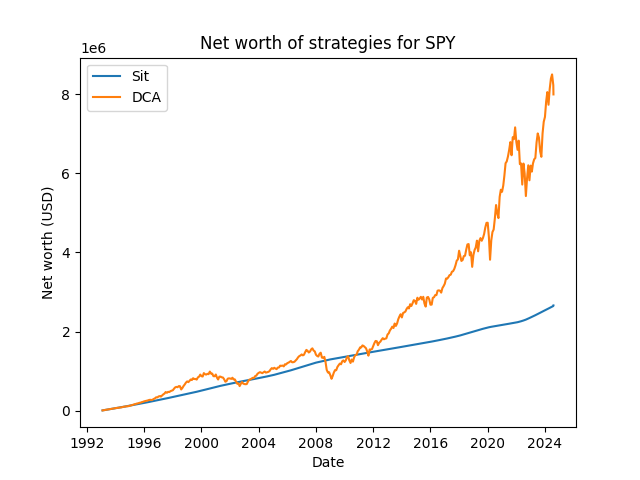
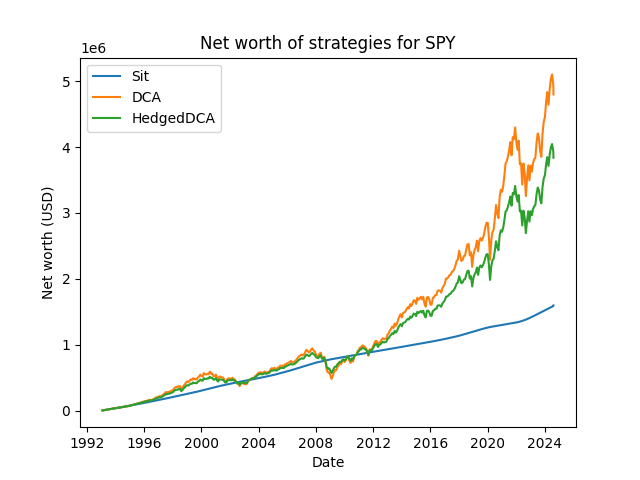
Added some basic samples

diff --git a/main.py b/main.py
@@ -1,15 +1,18 @@
 import os
 from dataclasses import dataclass
 import datetime
-from strategies.DCA import DCA
+
 from strategies.Sit import Sit
+from strategies.DCA import DCA
+from strategies.HedgedDCA import HedgedDCA
+
 from utils import MarketDatapoint
 import matplotlib.pyplot as plt
 
 # ===== Global variables =======================================================
 
 # Monthly cashflow/income
-monthlyIncome = 5_000.00  # USD for stock investing
+monthlyIncome = 3_000.00  # USD for stock investing
 
 # Yield rates, historically
 yieldRates = []
@@ -18,7 +21,7 @@ yieldRates = []
 tickers = [filename for filename in os.listdir(
     "tickers") if filename.endswith(".csv")]
 tickers = [ticker[:-4] for ticker in tickers]
-strategies = [Sit, DCA]
+strategies = [Sit, DCA, HedgedDCA]
 
 # ===== Data processing step ===================================================
 

diff --git a/strategies/HedgedDCA.py b/strategies/HedgedDCA.py
@@ -2,13 +2,14 @@ from strategies.AbstractStrategy import AbstractStrategy
 from utils import MarketDatapoint
 
 
-class DCA(AbstractStrategy):
+class HedgedDCA(AbstractStrategy):
     def __init__(self):
         super().__init__()
 
     def applyOrderStrategy(self, income: float, dp: MarketDatapoint):
-        # Calculate the number of shares to buy
-        stockShareCount = income / dp.marketClose
+        # Instead of YOLO-ing into the market, we'll hedge our bets
+        self.bankBalance += income * 0.3
 
-        # Since we aren't adding to our bank balance, we can just add shares
+        # Now we can just do DCA with the remainder
+        stockShareCount = (income * 0.7) / dp.marketClose
         self.stockShareCount += stockShareCount

diff --git a/strategies/Sit.py b/strategies/Sit.py
@@ -1,11 +1,6 @@
 from strategies.AbstractStrategy import AbstractStrategy
 from utils import MarketDatapoint
 
-# The Sit strategy does nothing but sit on its current income in money market
-# funds. This is a simple strategy that does not involve any significant trading
-# or portfolio management; However, the returns are capped to the federal yield
-# rate alone.
-
 
 class Sit(AbstractStrategy):
     def __init__(self):

diff --git a/FinDocs.md b/FinDocs.md
@@ -1,0 +1,89 @@
+# Financial Documentation
+
+NOTE: None of what is written here is financial advice, and it's probably not
+even correct financial reading material. It's simply my interpretation of what's
+going on in these backtests.
+
+NOTE 2: These are investing backtests, and past performance is not necessarily
+indicative of future results. For a more detailed breakdown on why that is the
+case, check out [this video](https://www.youtube.com/watch?v=jm55pm_ZIdI).
+
+## Overall results
+
+The following is a graph of overall results for various strategies on $SPY,
+which is the index fund (ETF) for the S&P 500.
+
+![SPY](graphs/Stock_SPY.png)
+
+The following is a graph of results for strategies on $QQQ.
+
+![QQQ](graphs/Stock_QQQ.png)
+
+## Breakdowns of individual strategy
+
+### Sit: Probably a bad idea for your money
+
+![Sit](graphs/Strat_Sit.png)
+
+The Sit strategy consists of taking monthly income and throwing it in a money
+market fund. For these graphs, I've taken historical data of federal/treasury
+return rates as a close-enough stand-in for money market yield rates. Treasury
+bonds or other things should yield roughly the same, but in bull markets, very
+generally, money market funds outperform treasury bonds whilst being more
+liquid. Notably, money market funds also outperform HYSAs, making them a fairly
+good candidate.
+
+The Sit strategy actually outperforms other strategies in times of significant
+recession, as you don't _lose_ money while sitting on it. However, notably, once
+you have enough money as a cushion to absorb losses, sitting underperforms other
+strategies significantly, and in a long enough term, it underperforms vastly.
+
+### DCA: What people tell you to do
+
+![DCA](graphs/Strat_DCA.png)
+
+Dollar Cost Averaging (DCA) is a technique used to perform better in a market
+scenario by simply (and blindly) throwing fixed amounts of money, monthly, into
+the market, regardless of its performance. You incur gains and losses relative
+to the market, but over time, if the underlying stock increases your portfolio
+increases.
+
+From a mathematical perspective, a crude approximation of a cyclical market is
+that of a sinusoidal wave (with changing phase, changing frequency - The point
+is, it's sinusoidal) and an additional baseband component. This baseband
+component generically goes up in financial markets, as the value of things
+consistently goes up. In other terms, as more technology develops and life
+becomes easier, the average value of things goes up, and so too should a
+financial market.
+
+Unlike Sit, which most closely follows the "baseband" component of value going
+up, DCA leverages the fact that the market is largely cyclical and applies that
+to the stock by simply buying no matter what. If the market is a sinusoidal
+pattern, by taking the average of that curve, you get a root-mean-squared (RMS)
+value on top of the ever-increasing baseband, which is additional profit. In
+practice, this can be reinvested for significant gains.
+
+### Hedged DCA: Interesting results
+
+![HedgedDCA](graphs/Strat_HedgedDCA.png)
+
+Oftentimes financial investors will advise people to hedge their investments
+against negative market movements. For this simulation, I've chosen a 70%/30%
+split, where 70% of income is DCA'd flat into stocks, and the remainder 30% is
+added to bank balance, where it slowly increases over time. Notably, this
+strategy underperforms flat dollar cost averaging in almost every time period.
+
+The time period of note where this strategy underperformed was actually shortly
+after 2008, which was during the housing crisis. In times of extreme recession,
+hedging bets with higher treasury build-up seemed like a very valuable play
+compared to continually investing.
+
+However, I think a possible explanation for this may stem from the fact that the
+total amount in the investment account was not very large. As a huge bull run
+occurred between the years of 2010 and now, smaller recessionary periods seemed
+to be significantly less effective on overall net worth as a result. As such, I
+think hedging doesn't seem like a very strong choice, _assuming stocks continue
+to go up._
+
+I'll still probably hedge my bets (a little less) anyways, as the bull run we
+just experienced looks a little too good to replicate itself.

diff --git a/README.md b/README.md
@@ -5,13 +5,28 @@ some investing principles, I felt it would be interesting to compare and
 contrast a variety of investing strategies (month-to-month, for long-term
 investing only!) with each other.
 
-The sample scenario is simple: An investor receives $5,000 monthly and can
+The sample scenario is simple: An investor receives $3,000 monthly and can
 either invest in a particular (ETF) stock or hold it in a more liquid money
 market fund (using historical federal reserve board data for interest rates). At
 the end of the several-year run, which strategy gains the most net worth?
 
 Gains are aggregated and tested on a variety of differing strategies. All prices
 for buying and selling shares are based on the market's adjusted close value.
+
+## Can I make one?
+
+Sure! The structure is designed to spit out a graph for each individual strategy
+added to the `strategies` folder. As such, simply add a strategy to the
+`strategies` folder with the requisite format (see the other strategies for
+examples).
+
+Simply running `python main.py` will execute your strategy and compare it
+alongside the others.
+
+## Financial breakdown
+
+A more comprehensive breakdown on the financial side of things is in the
+`findocs.md` file.
 
 # License TL;DR
 
